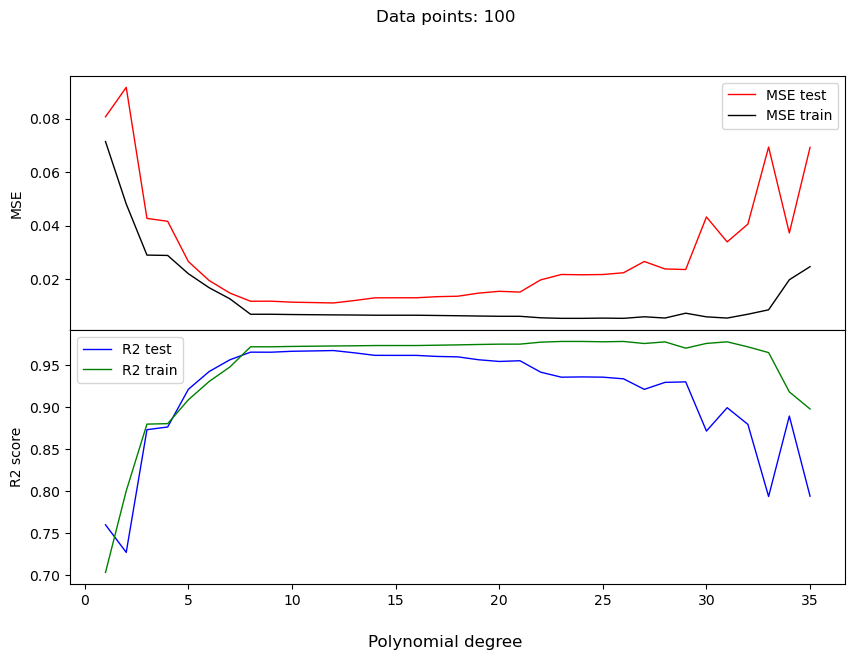
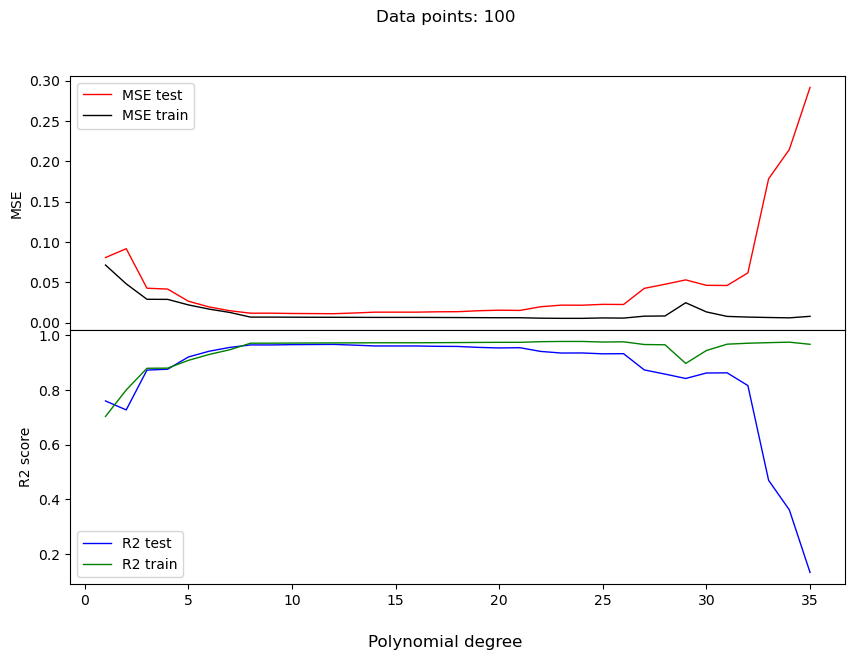
Implemented the Franke function

diff --git a/project1/src.py b/project1/src.py
@@ -1,22 +1,34 @@
 import numpy as np 
 import matplotlib.pyplot as plt 
+from mpl_toolkits.mplot3d import Axes3D
+from matplotlib import cm
+from matplotlib.ticker import LinearLocator, FormatStrFormatter
 from sklearn.model_selection import train_test_split
 from sklearn.metrics import mean_squared_error as MSE, r2_score as R2
-from sklearn.preprocessing import PolynomialFeatures
+from sklearn.preprocessing import PolynomialFeatures, StandardScaler
 from sklearn.pipeline import Pipeline
 from sklearn.linear_model import LinearRegression
 
 class Regression:
 
-    def __init__(self, x_data, y_data):
-        self.x_data = x_data
-        self.y_data = y_data
-        self.X_train, self.X_test, self.y_train, self.y_test = train_test_split(self.x_data, self.y_data, test_size=0.2)
+    def __init__(self, x_data, y_data, z_data=None):
+
+        if z_data is None:
+            self.X = x_data
+            self.y_data = y_data
+            self.dim = 1
+        else:
+            self.X = np.column_stack((x_data, y_data))
+            self.y_data = z_data 
+            self.dim = 2
+
+        self.X_train, self.X_test, self.y_train, self.y_test = train_test_split(self.X, self.y_data, test_size=0.2)
 
     def OLS(self, n_poly, identity_test=False):
+        max_polys = n_poly * self.dim**2 + 1
 
         if identity_test:
-            X = np.eye(len(self.x_data))
+            X = np.eye(len(self.X))
             beta = np.linalg.inv(X.T @ X) @ X.T @ self.y_data
             y_tilde = X @ beta 
             mse = MSE(self.y_data, y_tilde)
@@ -28,15 +40,18 @@ class Regression:
         self.mse_ols_test = np.zeros(n_poly)
         self.r2_ols_train = np.zeros(n_poly)
         self.r2_ols_test = np.zeros(n_poly)
-        self.beta_ols = np.zeros((n_poly, n_poly+1))
+        self.beta_ols = np.zeros((n_poly, max_polys))
 
         for i in range(len(self.poly_degs)):
-            model = Pipeline([('poly', PolynomialFeatures(degree=self.poly_degs[i])), \
+            model = Pipeline([('scaler', StandardScaler()), \
+                            ('poly', PolynomialFeatures(degree=self.poly_degs[i])), \
                             ('linear', LinearRegression())])
             
             clf = model.fit(self.X_train, self.y_train)
             beta = model.named_steps['linear'].coef_[0]
-            self.beta_ols[i, :i+2] = beta
+            zeros = np.zeros(max_polys - len(beta))
+            beta = np.append(beta, zeros)
+            self.beta_ols[i, :] = beta
 
             y_tilde = clf.predict(self.X_train)
             y_predict = clf.predict(self.X_test)
@@ -53,13 +68,14 @@ class Regression:
         
     def plot_evolution(self, model, figname):
         x = self.poly_degs
+
         if model == 'OLS':
             mse_train, mse_test = self.mse_ols_train, self.mse_ols_test
             r2_train, r2_test = self.r2_ols_train, self.r2_ols_test
             beta = self.beta_ols
         
         fig, ax = plt.subplots(2, 1, figsize=(10, 6.6), sharex=True)
-        fig.suptitle(f'Data points: {len(self.x_data)}')
+        fig.suptitle(f'Data points: {len(self.X)}')
 
         ax[0].plot(x, mse_test, lw=1, color='red', label='MSE test')
         ax[0].plot(x, mse_train, lw=1, color='black', label='MSE train')
@@ -76,15 +92,29 @@ class Regression:
         fig.savefig('figures/' + model + '_' + figname + '.png', bbox_inches='tight')
         fig.savefig('figures/' + model + '_' + figname + '.pdf', bbox_inches='tight')
         
-        coeffs = np.arange(len(beta[:, 0]))
-        
-        fig, ax = plt.subplots(figsize=(10, 7.5))
+        fig, ax = plt.subplots(figsize=(10, 5))
 
-        for i in range(4):
-            ax.plot(beta[:, i], coeffs, lw=1, label=r'$\beta$' + f'_{i}')
+        for i in range(len(self.poly_degs)):
+            ax.plot(x, beta[:, i], lw=1, label=r'$\beta$' + f'$_{self.poly_degs[i]}$')
         
+        ax.set_xlabel('Polynomial degree')
+        ax.set_ylabel(r'$\beta_i$ value')
         ax.legend()
 
+def frankes_function(x, y, add_noise=True):
+    term1 = 0.75 * np.exp(-(0.25 * (9 * x - 2)**2) - 0.25 * ((9 * y - 2)**2))
+    term2 = 0.75 * np.exp(-((9 * x + 1)**2) / 49.0 - 0.1 * (9 * y + 1))
+    term3 = 0.5 * np.exp(-(9 * x - 7)**2 / 4.0 - 0.25 * ((9 * y - 3)**2))
+    term4 = -0.2 * np.exp(-(9 * x - 4)**2 - (9 * y - 7)**2)
+
+    res = term1 + term2 + term3 + term4
+
+    if add_noise:
+        return res + np.random.normal(0, 1.0, x.shape)
+
+    else:
+        return res
+    
 if __name__ == '__main__':
     np.random.seed(2018)
     n = 100
@@ -92,6 +122,28 @@ if __name__ == '__main__':
     y = np.exp(-x**2) + 1.5 * np.exp(-(x - 2)**2) + np.random.normal(0, 0.1, x.shape)
 
     fit = Regression(x, y)
-    fit.OLS(35)
+    fit.OLS(35, identity_test=True)
     fit.plot_evolution('OLS', 'test')
     plt.show()
+
+    # fig = plt.figure(figsize=(8, 6))
+    # ax = fig.add_subplot(projection="3d")
+
+    # x = np.arange(0, 1, 0.05)
+    # y = np.arange(0, 1, 0.05)
+    # X, Y = np.meshgrid(x,y)
+    # z = frankes_function(X, Y, add_noise=False)
+
+    # # Plot the surface.
+    # surf = ax.plot_surface(X, Y, z, cmap=cm.coolwarm,
+    #                     linewidth=0, antialiased=False)
+
+    # # Customize the z axis.
+    # ax.set_zlim(-0.10, 1.40)
+    # ax.zaxis.set_major_locator(LinearLocator(10))
+    # ax.zaxis.set_major_formatter(FormatStrFormatter('%.02f'))
+
+    # # Add a color bar which maps values to colors.
+    # fig.colorbar(surf, shrink=0.5, aspect=5)
+
+    # plt.show()

diff --git a/project1/project1.py b/project1/project1.py
@@ -1,0 +1,16 @@
+import numpy as np 
+from numpy.random import rand
+import matplotlib.pyplot as plt 
+from src import Regression, frankes_function
+
+np.random.seed(2018)
+
+n = 100
+x, y = rand(2, n)
+X, Y = np.meshgrid(x, y)
+z = frankes_function(X, Y)
+
+reg = Regression(x, y, z)
+reg.OLS(5)
+reg.plot_evolution('OLS', 'franke-test')
+plt.show()
